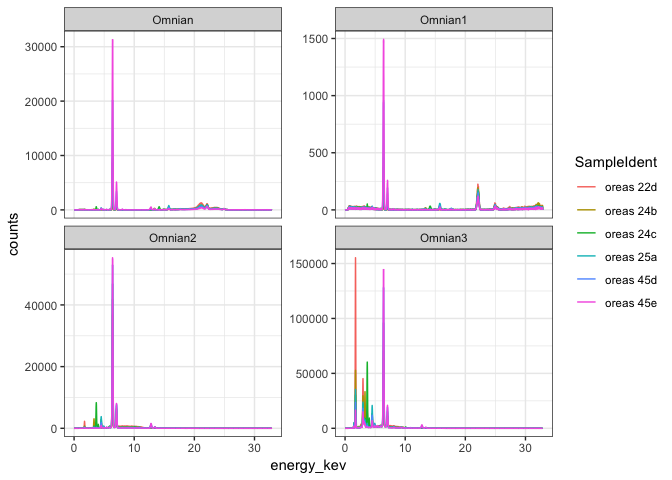
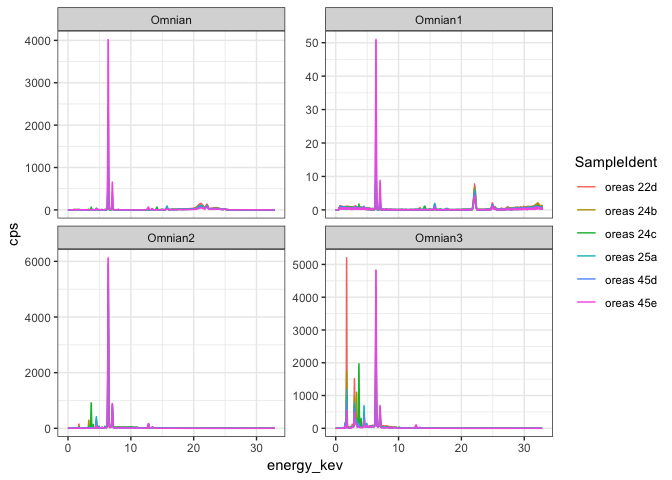
more flexible baseline estimation

diff --git a/README.md b/README.md
@@ -31,9 +31,55 @@ pan_files <- list.files(pan_example_dir, ".mp2", full.names = TRUE)
 specs <- read_xrf_panalytical(pan_files)
 specs %>%
   unnest(.spectra) %>%
-  ggplot(aes(x = energy_kev, y = counts, col = SampleIdent)) +
+  ggplot(aes(x = energy_kev, y = cps, col = SampleIdent)) +
   geom_line() +
   facet_wrap(vars(ConditionSet), scales = "free_y")
 ```
 
 ![](README-example-1.png)
+
+Baselines
+=========
+
+The **xrf** package can use several existing methods for estimating "background" or "baseline" values. The most useful of these for XRF spectra is the Sensitive Nonlinear Iterative Peak (SNIP) method, implemented in the **Peaks** package.
+
+``` r
+specs %>%
+  xrf_add_baseline_snip(iterations = 20) %>%
+  slice(3) %>%
+  unnest() %>%
+  ggplot(aes(x = energy_kev)) +
+  geom_line(aes(y = cps, col = "raw")) +
+  geom_line(aes(y = baseline, col = "baseline")) +
+  geom_line(aes(y = cps - baseline, col = "cps - baseline"))
+```
+
+![](README-unnamed-chunk-2-1.png)
+
+Peaks
+=====
+
+``` r
+oreas22d <- specs %>%
+  filter(SampleIdent == "oreas 22d") %>%
+  unnest(.spectra) %>%
+  mutate(cps = counts / LiveTime)
+
+xrf_en <- xrf_energies %>%
+  crossing(tibble(ConditionSet = unique(oreas22d$ConditionSet))) %>%
+  group_by(ConditionSet) %>%
+  mutate(
+    data = list(oreas22d[oreas22d$ConditionSet == ConditionSet[1],]),
+    counts = approx(data[[1]]$energy_kev, data[[1]]$counts, energy_kev)$y,
+    fit = approx(data[[1]]$energy_kev, data[[1]]$fit, energy_kev)$y,
+    background = approx(data[[1]]$energy_kev, data[[1]]$background, energy_kev)$y,
+    cps = approx(data[[1]]$energy_kev, data[[1]]$cps, energy_kev)$y
+  ) %>%
+  select(-data)
+
+library(plotly)
+plot_ly() %>%
+  add_lines(x = ~energy_kev, y = ~cps, color = ~ConditionSet, hoverinfo = "none", 
+            data = oreas22d) %>%
+  add_markers(x = ~energy_kev, y = ~cps, text = ~element, color = ~ConditionSet, data = xrf_en)
+```
